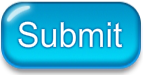
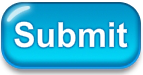
MTD-1426 fixed and submit button updated

diff --git a/src/app/modules/Elementary/Ntemplate20/Ntemplate20.component.ts b/src/app/modules/Elementary/Ntemplate20/Ntemplate20.component.ts
@@ -688,7 +688,9 @@ export class Ntemplate20Component implements OnInit, OnDestroy {
       }
       if (action == "fadeEverything") {
         this.appModel.notifyUserAction();
-        this.blinkOnLastQues();
+        if (this.responseType != "partialAttempt" && this.responseType != "wrongAttempt" && this.responseType != "allCorrect") {
+          this.blinkOnLastQues();
+        }
       }
       if (action === undefined || action == "undefined") {
         this.appModel.notifyUserAction();
